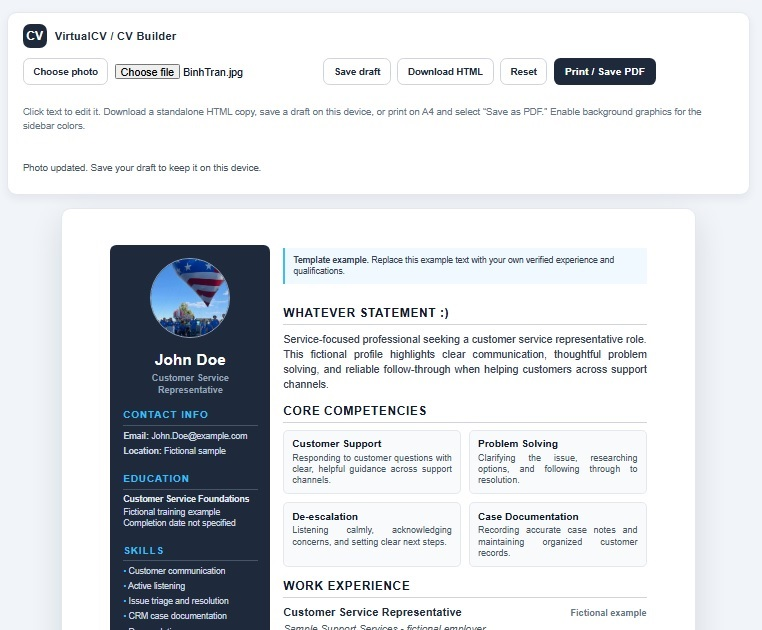
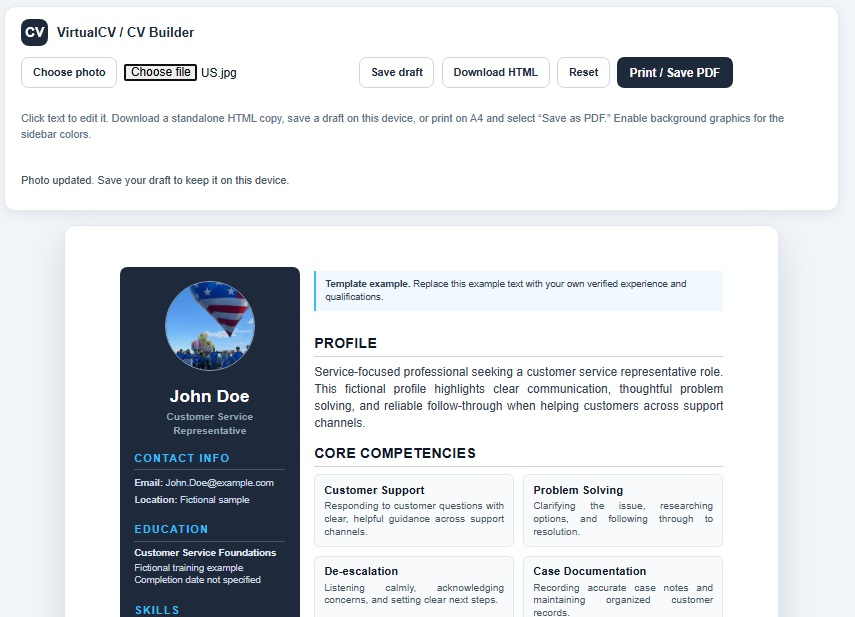
✨ 311026 0425 ✨ - Add CV builder Mobile US profile new image

Changed region(s): [[0.0, 0.0308, 0.9357, 1.0], [0.0604, 0.3695, 0.0906, 1.0]]

diff --git a/index.html b/index.html
@@ -203,6 +203,45 @@ Website: https://phoenixflix.vercel.app
             display: block;
         }
 
+        .mobile-demo {
+            max-width: 940px;
+            margin: 44px auto 0;
+            display: grid;
+            grid-template-columns: minmax(0, 1fr) minmax(0, 320px);
+            align-items: center;
+            gap: 36px;
+            text-align: left;
+        }
+
+        .mobile-demo h2 {
+            margin: 0 0 10px;
+            color: var(--navy);
+            font-size: clamp(22px, 3vw, 30px);
+            letter-spacing: -0.03em;
+        }
+
+        .mobile-demo p {
+            margin: 0;
+            color: var(--muted);
+            font-size: 15px;
+            line-height: 1.7;
+        }
+
+        .mobile-demo a:focus-visible {
+            border-radius: 12px;
+            outline: 3px solid #38bdf8;
+            outline-offset: 4px;
+        }
+
+        .mobile-demo img {
+            width: 100%;
+            height: auto;
+            display: block;
+            border: 1px solid var(--border);
+            border-radius: 14px;
+            box-shadow: 0 16px 40px rgba(15, 23, 42, 0.12);
+        }
+
         .workflow {
             max-width: 940px;
             margin: 42px auto 0;
@@ -371,6 +410,17 @@ Website: https://phoenixflix.vercel.app
                 border-radius: 12px;
             }
 
+            .mobile-demo {
+                margin-top: 36px;
+                grid-template-columns: 1fr;
+                gap: 20px;
+            }
+
+            .mobile-demo img {
+                width: min(100%, 320px);
+                margin-inline: auto;
+            }
+
             .workflow {
                 margin-top: 24px;
                 grid-template-columns: 1fr;
@@ -440,6 +490,20 @@ Website: https://phoenixflix.vercel.app
                     <img src="images/CVbuilder.jpg" alt="Preview of the CV builder, showing editing, photo upload, HTML download, and PDF print controls">
                 </a>
             </div>
+
+            <section class="mobile-demo" aria-labelledby="mobile-demo-heading">
+                <div>
+                    <h2 id="mobile-demo-heading">A hosted CV that works on mobile</h2>
+                    <p>
+                        Candidate pages are easy to read on a phone, too.
+                        This sample shows how a hosted CV appears on a mobile screen.
+                        <a class="hosting-link" href="https://virtualcv.github.io/JohnDoe/" target="_blank" rel="noopener noreferrer">Open the sample CV</a>.
+                    </p>
+                </div>
+                <a href="https://virtualcv.github.io/JohnDoe/" target="_blank" rel="noopener noreferrer" aria-label="Open the sample hosted CV shown in this mobile preview">
+                    <img src="images/VirtualCV_mobile.jpg" alt="John Doe sample CV displayed in a mobile browser">
+                </a>
+            </section>
 
             <section class="workflow" aria-label="How to create and host your CV">
                 <article class="workflow-step">

diff --git a/README.md b/README.md
@@ -12,14 +12,17 @@ VirtualCV hosts candidate CVs as static pages on GitHub Pages. Candidates can bu
 
 The builder is maintained separately from this repository. Drafts are saved locally in the candidate’s browser and are not uploaded automatically.
 
-<!-- ### VirtualCV preview
-![Preview of the Virtual CV page](images/virtualCV.jpg) -->
+### Hosted CV on mobile
+
+[View the John Doe sample CV](https://virtualcv.github.io/JohnDoe/).
+
+![John Doe sample CV displayed in a mobile browser](images/VirtualCV_mobile.jpg)
 
 ### CV builder preview
 
 [Open the CV builder](https://phoenixflix.vercel.app/CVbuilder).
 
-![Preview of the CV builder, including photo upload, HTML download, and print controls](images/VirtualCV.jpg)
+![Preview of the CV builder, including photo upload, HTML download, and print controls](images/CVbuilder.jpg)
 
 ### Example hosted CV
 
@@ -43,6 +46,8 @@ Root-level CV files and profile folders are separate pages. Update the intended 
 ├── index.html
 ├── favicon.svg
 ├── images/
+│   ├── VirtualCV.jpg
+│   ├── VirtualCV_mobile.jpg
 │   ├── CVbuilder.jpg
 │   └── onlineCV.jpg
 ├── BenTran/

diff --git a/README_CVbuilder.md b/README_CVbuilder.md
@@ -12,14 +12,17 @@ VirtualCV hosts candidate CVs as static pages on GitHub Pages. Candidates can bu
 
 The builder is maintained separately from this repository. Drafts are saved locally in the candidate’s browser and are not uploaded automatically.
 
-<!-- ### VirtualCV preview
-![Preview of the Virtual CV page](images/virtualCV.jpg) -->
+### Hosted CV on mobile
+
+[View the John Doe sample CV](https://virtualcv.github.io/JohnDoe/).
+
+![John Doe sample CV displayed in a mobile browser](images/VirtualCV_mobile.jpg)
 
 ### CV builder preview
 
 [Open the CV builder](https://phoenixflix.vercel.app/CVbuilder).
 
-![Preview of the CV builder, including photo upload, HTML download, and print controls](images/VirtualCV.jpg)
+![Preview of the CV builder, including photo upload, HTML download, and print controls](images/CVbuilder.jpg)
 
 ### Example hosted CV
 
@@ -43,6 +46,8 @@ Root-level CV files and profile folders are separate pages. Update the intended 
 ├── index.html
 ├── favicon.svg
 ├── images/
+│   ├── VirtualCV.jpg
+│   ├── VirtualCV_mobile.jpg
 │   ├── CVbuilder.jpg
 │   └── onlineCV.jpg
 ├── BenTran/

diff --git a/Git BRANCH.md b/Git BRANCH.md
@@ -33,7 +33,7 @@ git checkout -b feature/V4
 
 # 3. Add and commit your new CV files to the feature branch
 git add .
-git commit -m "✨ $(date +%d%m%y) $(date +%H%M) ✨ - Add CV builder Mobile profile"
+git commit -m "✨ $(date +%d%m%y) $(date +%H%M) ✨ - Add CV builder Mobile US profile new image"
 
 # 4. Push the feature branch to GitHub
 git push -u origin feature/V4
